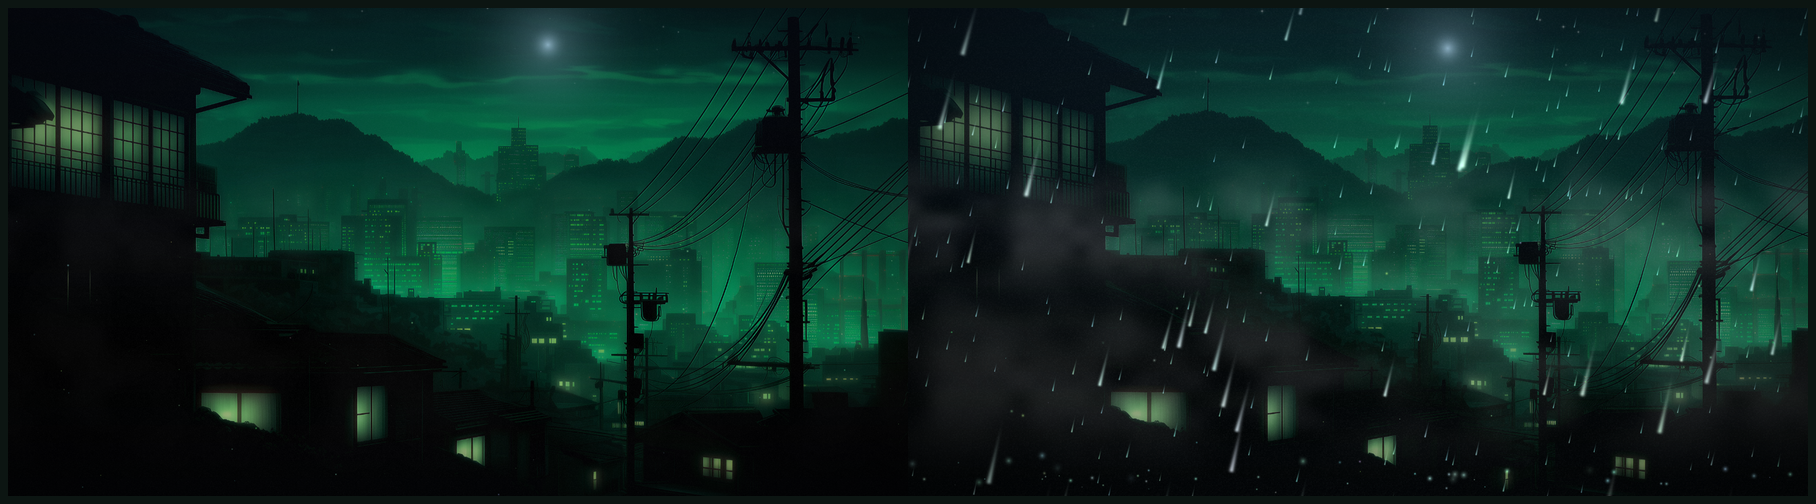
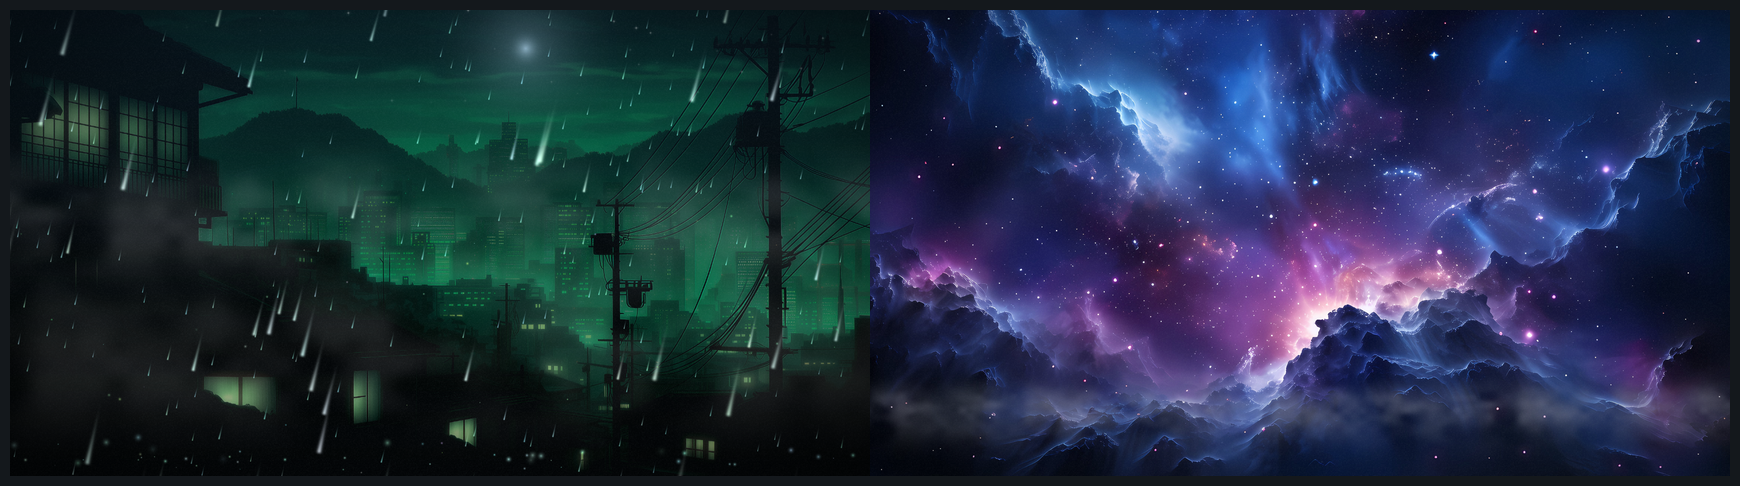
Declare the real dependencies, and make detection optional
Requirements listed jq and curl but not python3 or ImageMagick, which the
wallpaper detector needs -- a submission checklist asks you to have documented
external dependencies, and that would have been false.

Making it accurate exposed that it was not optional in practice either: `sky
recall` runs on every wallpaper change and called straight into sky_auto, which
died when the tools were missing. Detection is now behind can_detect(), so the
automatic path skips quietly and leaves the placement alone, while an explicit
`sky auto` still explains what it needs.

Preview replaced: it was the jade city twice over, which sold this as a theme
accessory. Now a night storm on that city beside fog on a nebula, which is what
the plugin actually does.

Claude-Session: https://claude.ai/code/session_01Hq1F6f5bRLcZNPSwdvrsrm

diff --git a/README.md b/README.md
@@ -329,9 +329,20 @@ fireflies.
 
 ## Requirements
 
-Omarchy 4.x (Quattro) with its Quickshell-based shell, plus `jq`. `curl` is only
-needed for `wallpaper-weather sync`. Qt's `QtQuick.Particles`, `QtQuick.Effects` and
-`QtQuick.Shapes` modules ship with `qt6-declarative`.
+Omarchy 4.x (Quattro), with its Quickshell-based shell.
+
+| | |
+|---|---|
+| `jq` | required — the CLI reads and writes its state with it |
+| `python3` | required for `sky auto` — the wallpaper detector is a stdlib-only script |
+| ImageMagick (`magick`) | required for `sky auto` — it samples the wallpaper |
+| `curl` | only for `wallpaper-weather sync` and `follow-weather` |
+
+Everything else is already there: `QtQuick.Particles`, `QtQuick.Effects` and
+`QtQuick.Shapes` ship with `qt6-declarative`.
+
+Without `python3` or ImageMagick the plugin still runs — you lose automatic
+wallpaper fitting and place the sky by hand with `wallpaper-weather sky`.
 
 ## Licence
 
